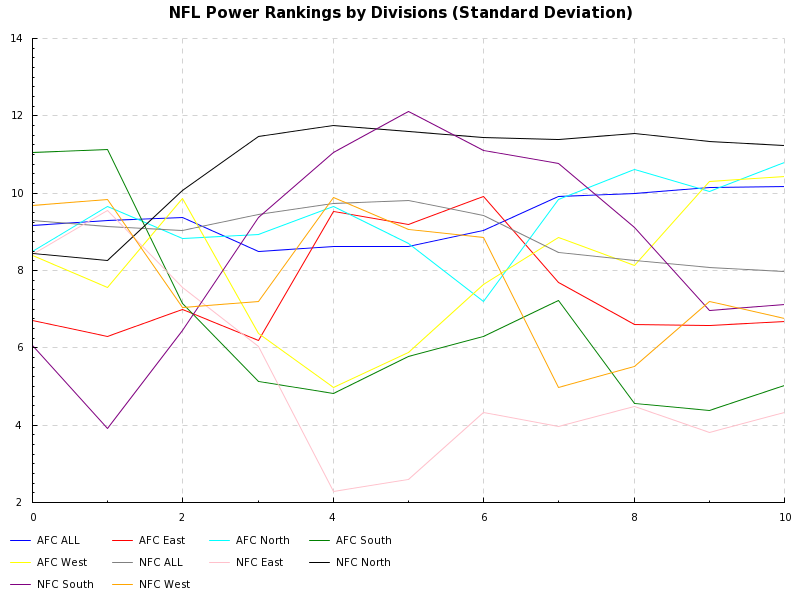
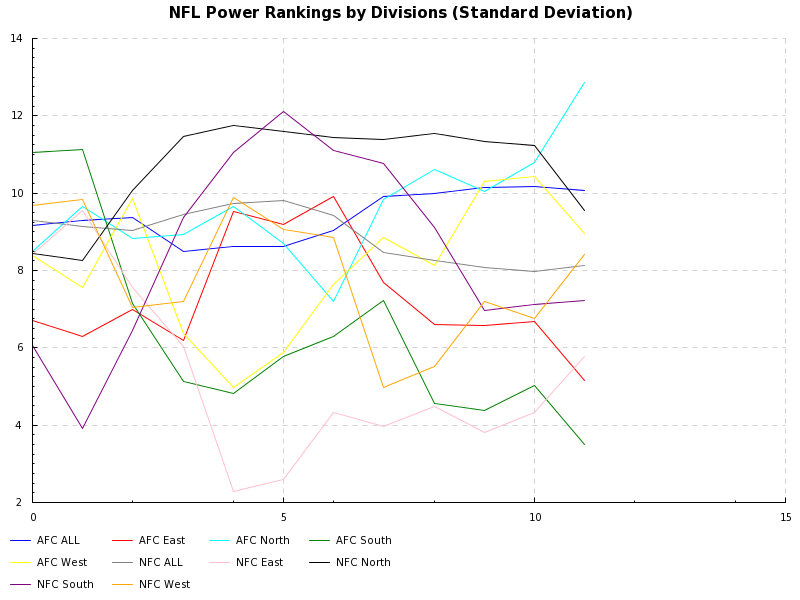
Week 11

diff --git a/README.md b/README.md
@@ -1,5 +1,22 @@
 ![average](https://github.com/mfine/nfl-divisions-power-rankings/blob/master/RESULTS-average.png)
 ![std dev](https://github.com/mfine/nfl-divisions-power-rankings/blob/master/RESULTS-std-dev.png)
+### Week-11
+
+```
+Division         Mean    Std Dev
+--------         ----    -------
+AFC East         9.75       5.17
+NFC South       12.25       7.22
+NFC North       14.50       9.55
+NFC ALL         15.25       8.13
+NFC East        17.00       5.79
+NFC West        17.25       8.41
+AFC ALL         17.75      10.07
+AFC North       17.75      12.87
+AFC West        18.25       8.95
+AFC South       25.25       3.49
+```
+
 ### Week-10
 
 ```
